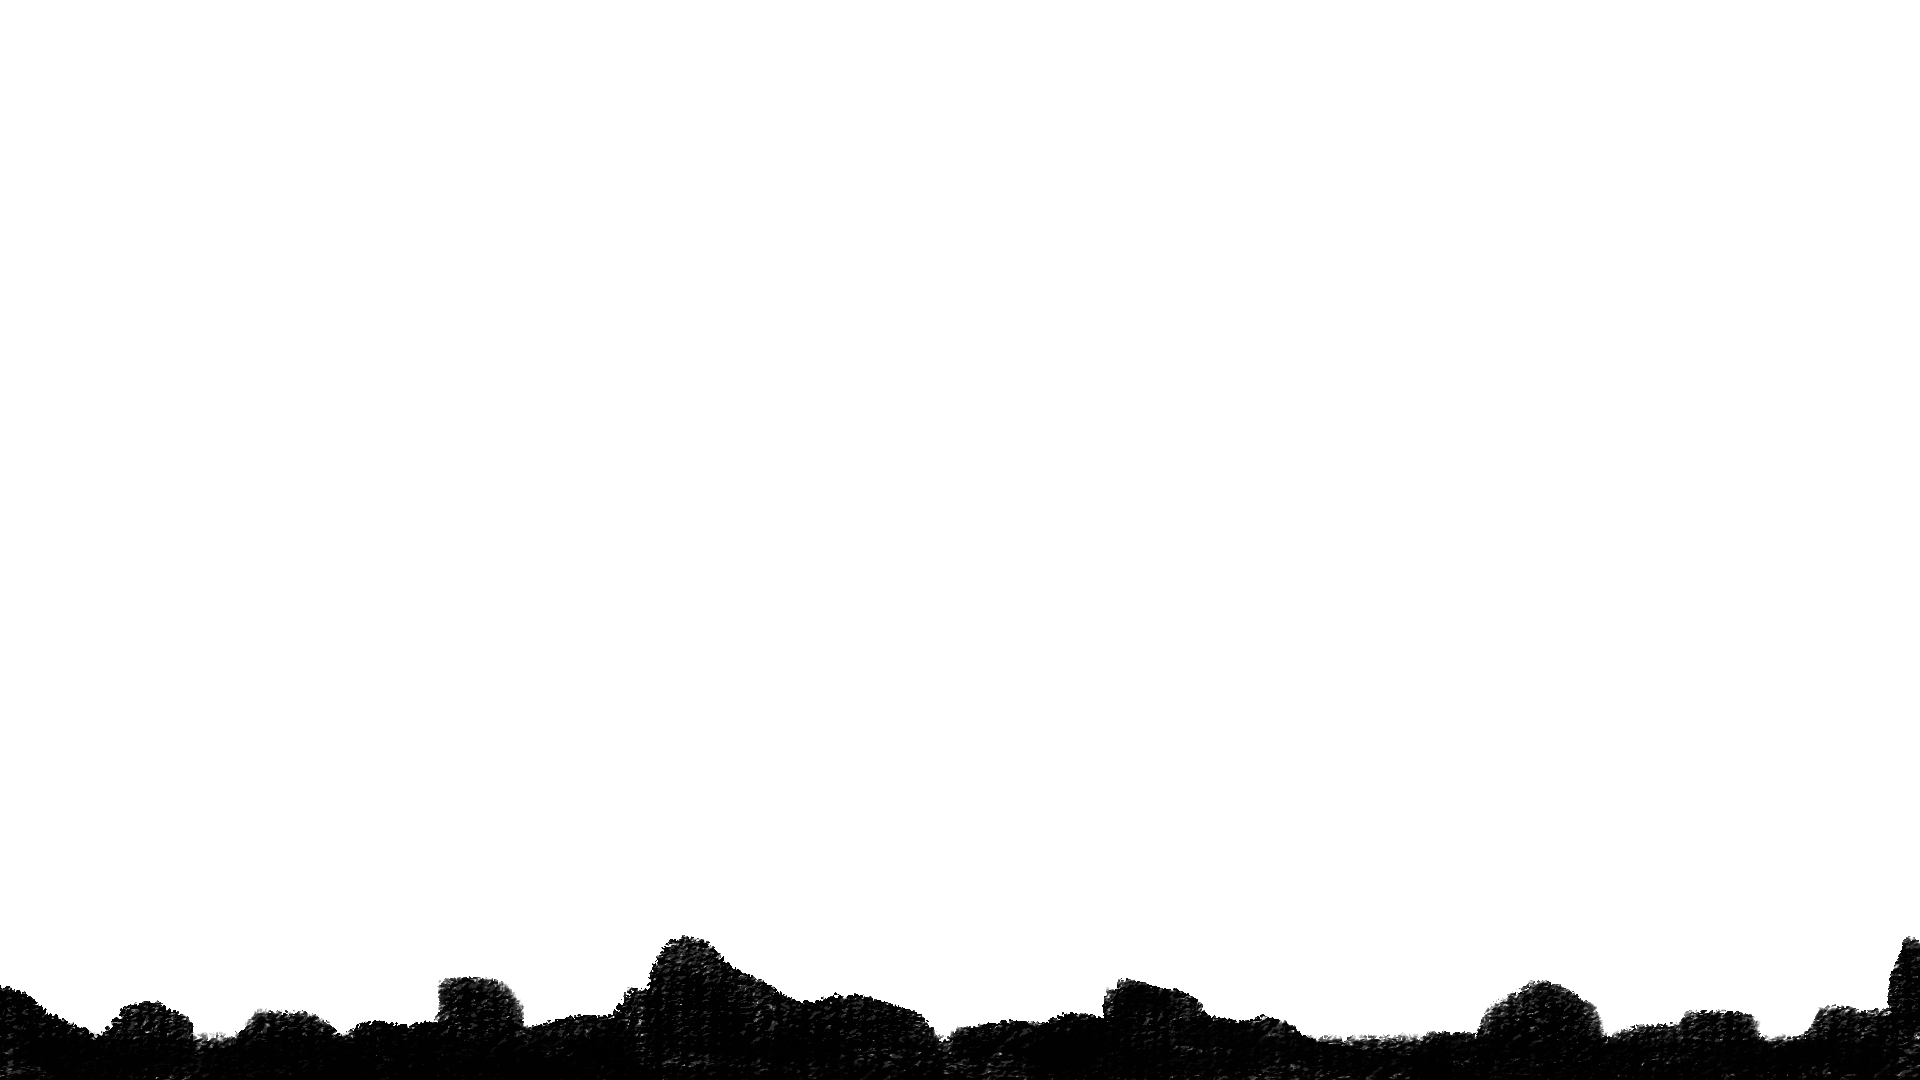
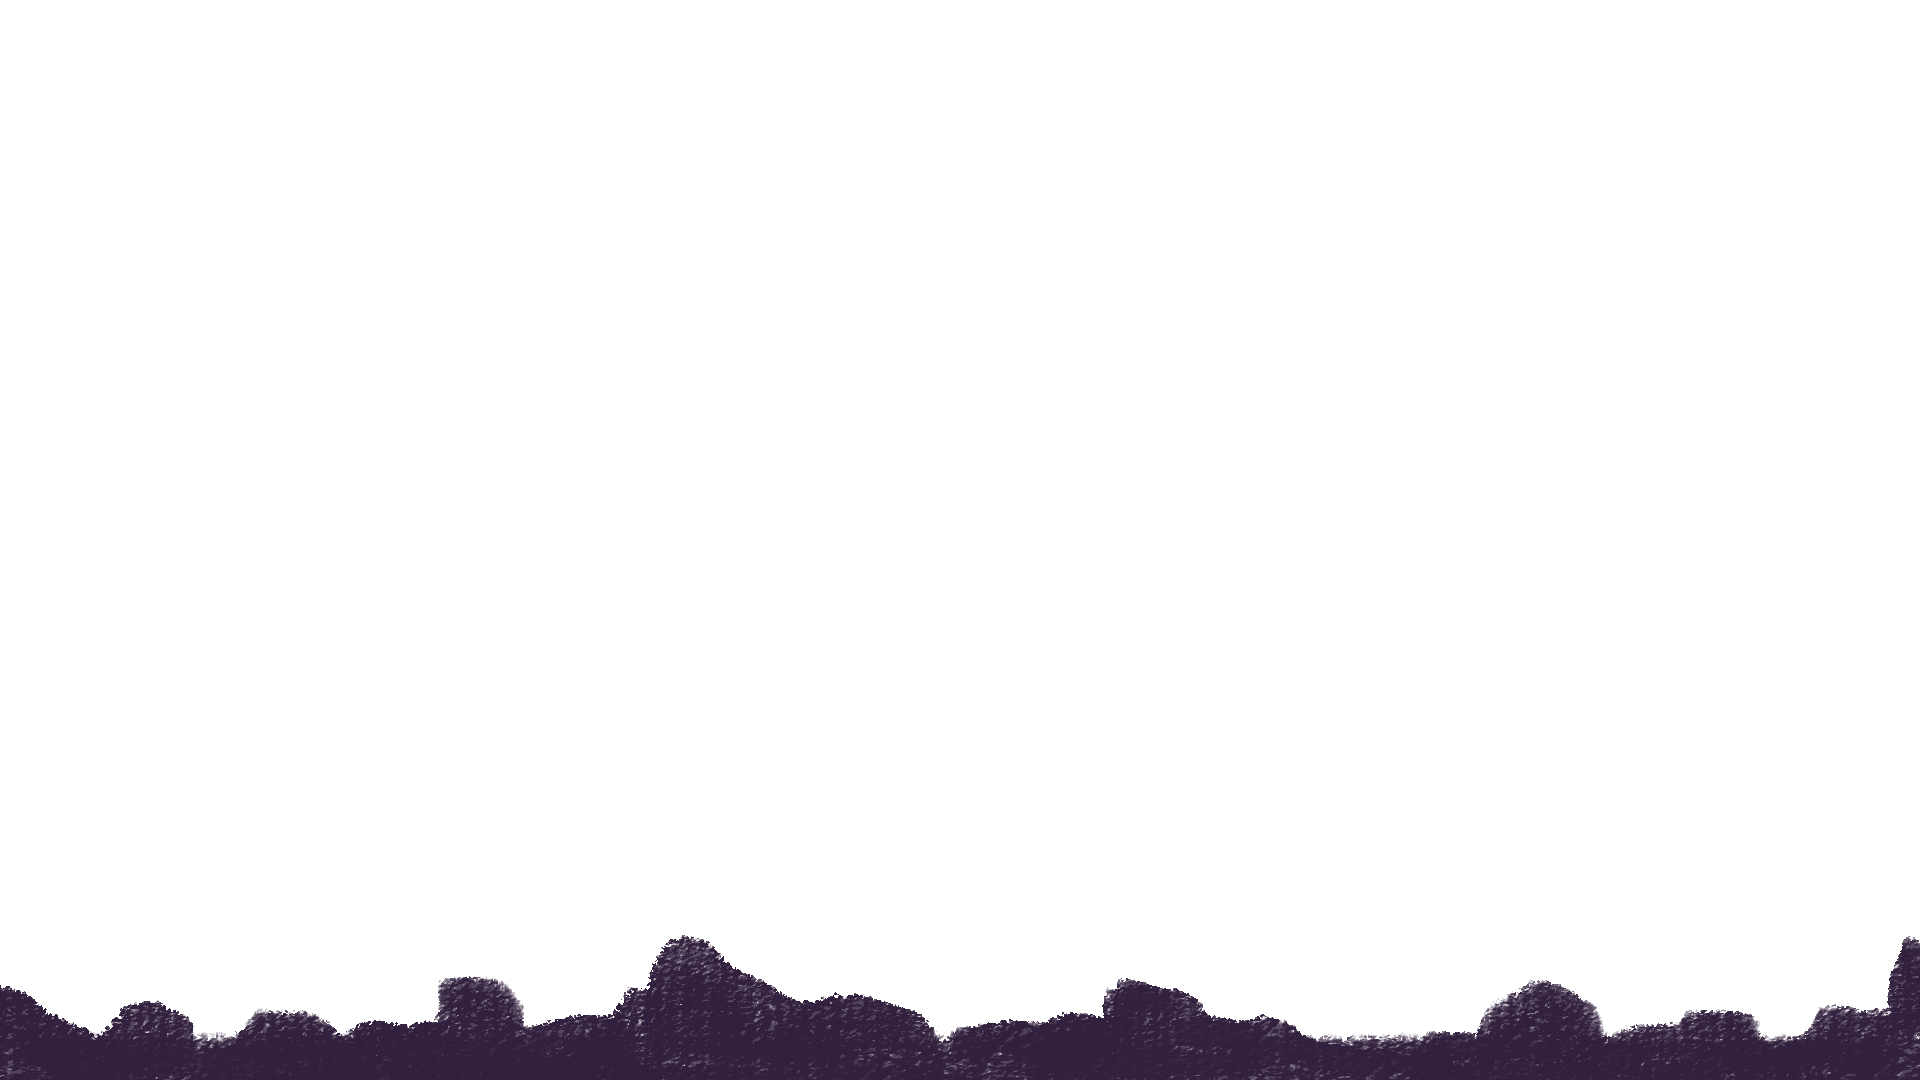
fixed cave foreground layers and mountain layer issues, fixed level arrows and continuity

Changed region(s): [[0.0, 0.8556, 1.0, 1.0]]

diff --git a/game.js b/game.js
@@ -1,15 +1,16 @@
 goal.x = 1800;
 goal.y = groundLevel - 92;
 
-// Level progression
+// Level progression (per-biome)
 let currentLevel = 1;
-let maxUnlockedLevel = 1;
+let maxUnlockedLevel = { cave: 1, forest: 1, mountain: 1 };
 
 // Win animation state
 let winGlow = 0;
 let winFade = 0;
 let winPhase = 'none'; // 'none' | 'glow' | 'fade' | 'done'
 
+// --- Standard parallax tiling (cave) ---
 function drawParallaxLayer(img, parallaxFactor) {
     if (!img.complete || img.naturalWidth === 0 || img.naturalHeight === 0) return;
 
@@ -24,24 +25,89 @@ function drawParallaxLayer(img, parallaxFactor) {
     }
 }
 
-function drawForegroundPlatforms() {
-    platforms.forEach(p => {
-        if (caveForegroundImg.complete && caveForegroundImg.naturalWidth > 0) {
-            ctx.drawImage(caveForegroundImg, p.x, p.y, p.w, p.h);
+// --- Forest: ping-pong mirror tiling for seamless blending ---
+function drawForestParallaxLayer(img, parallaxFactor) {
+    if (!img.complete || img.naturalWidth === 0 || img.naturalHeight === 0) return;
+
+    const dh = canvas.height;
+    const dw = (img.naturalWidth / img.naturalHeight) * dh;
+    let startX = (-cameraX * parallaxFactor) % dw;
+    if (startX > 0) startX -= dw;
+
+    // Figure out which tile index startX corresponds to
+    let tileNum = Math.round((-cameraX * parallaxFactor - startX) / dw);
+
+    for (let x = startX; x < canvas.width; x += dw) {
+        ctx.save();
+        if (tileNum % 2 === 1) {
+            // Mirror this tile so edges blend seamlessly
+            ctx.translate(x + dw, 0);
+            ctx.scale(-1, 1);
+            ctx.drawImage(img, 0, 0, dw, dh);
         } else {
-            ctx.fillStyle = '#555';
-            ctx.fillRect(p.x, p.y, p.w, p.h);
+            ctx.drawImage(img, x, 0, dw, dh);
         }
-    });
+        ctx.restore();
+        tileNum++;
+    }
 }
 
-function drawForeground2() {
-    if (caveForegroundImg2.complete && caveForegroundImg2.naturalWidth > 0) {
-        ctx.save();
-        ctx.globalAlpha = 0.65;
-        ctx.drawImage(caveForegroundImg2, 0, 0, levelWidth, canvas.height);
-        ctx.restore();
+// --- Mountain: section-based viewport per level ---
+function drawMountainLayer(img, parallaxFactor) {
+    if (!img.complete || img.naturalWidth === 0 || img.naturalHeight === 0) return;
+
+    const numLevels = 8;
+    const sectionSrcW = img.naturalWidth / numLevels;
+    const sectionSrcStart = (currentLevel - 1) * sectionSrcW;
+
+    // Scale section to screen, maintaining aspect ratio
+    const scale = canvas.height / img.naturalHeight;
+    const sectionDrawW = sectionSrcW * scale;
+
+    // Apply parallax scrolling within the section
+    const drawX = -cameraX * parallaxFactor;
+
+    ctx.drawImage(img,
+        sectionSrcStart, 0, sectionSrcW, img.naturalHeight,
+        drawX, 0, sectionDrawW, canvas.height
+    );
+}
+
+// --- Biome-aware parallax dispatcher ---
+function drawBiomeParallaxLayer(img, parallaxFactor) {
+    const biomeName = biomeList[currentBiomeIndex];
+    if (biomeName === 'mountain' || biomeName === 'forest') {
+        drawForestParallaxLayer(img, parallaxFactor);
+    } else {
+        drawParallaxLayer(img, parallaxFactor);
     }
+}
+
+// --- Foreground layer (behind player, world space) ---
+function drawForegroundLayer() {
+    const biome = getCurrentBiome();
+    const img = biome.foreground;
+    if (!img.complete || img.naturalWidth === 0) return;
+
+    // Extend past the door for a cleaner look on all biomes
+    ctx.drawImage(img, 0, 0, levelWidth + canvas.width, canvas.height);
+}
+
+// --- Foreground 2 overlay (in front of player, world space) ---
+function drawOverlayLayer() {
+    const biome = getCurrentBiome();
+    const img = biome.foreground2;
+    if (!img.complete || img.naturalWidth === 0) return;
+
+    ctx.save();
+    if (biomeList[currentBiomeIndex] === 'cave') {
+        ctx.globalAlpha = 0.40;
+        ctx.filter = 'brightness(0.7) saturate(0.5)';
+    } else {
+        ctx.globalAlpha = 0.65;
+    }
+    ctx.drawImage(img, 0, 0, levelWidth + canvas.width, canvas.height);
+    ctx.restore();
 }
 
 function showWinScreen() {
@@ -55,22 +121,50 @@ function showWinScreen() {
     winFade = 0;
 }
 
-function unlockNextLevel() {
-    if (currentLevel >= maxUnlockedLevel) {
-        maxUnlockedLevel = Math.min(currentLevel + 1, 8);
-    }
-    // Update button states in the DOM
+function updateLevelButtons() {
+    const biome = biomeList[currentBiomeIndex];
     document.querySelectorAll('.level-btn').forEach(function (btn) {
         const lvl = parseInt(btn.getAttribute('data-level'));
-        if (lvl <= maxUnlockedLevel) {
+        if (lvl <= maxUnlockedLevel[biome]) {
             btn.classList.remove('locked');
+        } else {
+            btn.classList.add('locked');
         }
     });
+}
+
+function unlockNextLevel() {
+    const biome = biomeList[currentBiomeIndex];
+    if (currentLevel >= maxUnlockedLevel[biome]) {
+        maxUnlockedLevel[biome] = Math.min(currentLevel + 1, 8);
+    }
+    updateLevelButtons();
+}
+
+function updateBiomeArrows() {
+    const leftBtn = document.getElementById('biome-left');
+    const rightBtn = document.getElementById('biome-right');
+    leftBtn.style.opacity = (currentBiomeIndex === 0) ? '0.2' : '1';
+    leftBtn.style.pointerEvents = (currentBiomeIndex === 0) ? 'none' : 'auto';
+    rightBtn.style.opacity = (currentBiomeIndex === biomeList.length - 1) ? '0.2' : '1';
+    rightBtn.style.pointerEvents = (currentBiomeIndex === biomeList.length - 1) ? 'none' : 'auto';
+}
+
+function switchBiome(delta) {
+    const newIndex = currentBiomeIndex + delta;
+    if (newIndex < 0 || newIndex >= biomeList.length) return;
+    currentBiomeIndex = newIndex;
+    const biome = biomeList[currentBiomeIndex];
+    document.getElementById('biome-name').textContent = '- ' + biomeNames[biome] + ' -';
+    document.getElementById('level-select').style.background = biomeMenuBgs[biome];
+    updateBiomeArrows();
+    updateLevelButtons();
 }
 
 function showLevelSelect() {
     unlockNextLevel();
     const ls = document.getElementById('level-select');
+    ls.style.background = biomeMenuBgs[biomeList[currentBiomeIndex]];
     ls.style.display = 'flex';
     ls.style.opacity = '0';
     requestAnimationFrame(function () {
@@ -92,7 +186,6 @@ function resetGame() {
     winGlow = 0;
     winFade = 0;
     npc.x = 50;
-    npc.y = 140;
     npc.velocityX = 0;
     npc.velocityY = 0;
     npc.stamina = 100;
@@ -100,6 +193,13 @@ function resetGame() {
     npc.onMouse = false;
     npc.state = 'SEEKING';
     cameraX = 0;
+
+    // Adjust ground level per biome so sprite sits on the terrain art
+    const biomeName = biomeList[currentBiomeIndex];
+    const biomeGroundOffset = (biomeName === 'mountain') ? 20 : (biomeName === 'cave') ? 40 : 0;
+    platforms[0].y = groundLevel + biomeGroundOffset;
+    goal.y = platforms[0].y - goal.height;
+    npc.y = platforms[0].y - npc.height;
 }
 
 // Level select button handlers
@@ -115,28 +215,34 @@ document.addEventListener('DOMContentLoaded', function () {
             }, 900);
         });
     });
+
+    // Biome navigation arrows
+    document.getElementById('biome-left').addEventListener('click', function () { switchBiome(-1); });
+    document.getElementById('biome-right').addEventListener('click', function () { switchBiome(1); });
+    updateBiomeArrows();
 });
 
 function gameLoop() {
     cameraX = npc.x - 200;
     if (cameraX < 0) cameraX = 0;
 
+    const biome = getCurrentBiome();
+    const biomeName = biomeList[currentBiomeIndex];
+
     ctx.clearRect(0, 0, canvas.width, canvas.height);
 
-    // 1. BACK LAYERS (Static & Parallax)
-    ctx.fillStyle = '#1e1e1e';
+    // 1. Background fill + parallax layers (screen space)
+    ctx.fillStyle = biomeFills[biomeName];
     ctx.fillRect(0, 0, canvas.width, canvas.height);
-    drawParallaxLayer(caveBackgroundImg, 0.2);
-    drawParallaxLayer(caveMiddlegroundImg, 0.5);
+    drawBiomeParallaxLayer(biome.background, 0.2);
+    drawBiomeParallaxLayer(biome.middleground, 0.5);
 
-    // 2. PARALLAX LAYERS
-    drawParallaxLayer(caveBackgroundImg, 0.2);
-    drawParallaxLayer(caveMiddlegroundImg, 0.5);
-
-
-    // 3. WORLD SPACE (Camera affects these)
+    // 2. WORLD SPACE (Camera affects these)
     ctx.save();
     ctx.translate(-cameraX, 0);
+
+    // 3. Foreground layer (behind player)
+    drawForegroundLayer();
 
     // Draw the Goal (exit door)
     if (exitDoorImg.complete && exitDoorImg.naturalWidth > 0) {
@@ -167,9 +273,8 @@ function gameLoop() {
     }
     npc.draw();
 
-    drawForegroundPlatforms();
-
-    drawForeground2();
+    // 4. Foreground 2 overlay (in front of player)
+    drawOverlayLayer();
 
     // --- WIN CONDITION CHECK ---
     if (!isLevelComplete &&

diff --git a/setup.js b/setup.js
@@ -29,17 +29,35 @@ const cacheBust = '?v=' + Date.now();
 const exitDoorImg = new Image();
 exitDoorImg.src = 'assets/Exit door.png' + cacheBust;
 
-const caveBackgroundImg = new Image();
-caveBackgroundImg.src = 'art/backgrounds/cave/Cave Background.png' + cacheBust;
+// Biome system
+const biomeList = ['cave', 'forest', 'mountain'];
+const biomeNames = { cave: 'CAVES', forest: 'FOREST', mountain: 'MOUNTAIN' };
+const biomeFills = { cave: '#1e1e1e', forest: '#0e1e0e', mountain: '#1a1e2a' };
+const biomeMenuBgs = {
+    cave: 'radial-gradient(ellipse at center, #1a1a3a 0%, #0a0a18 60%, #050510 100%)',
+    forest: 'radial-gradient(ellipse at center, #0a2a0a 0%, #061806 60%, #030f03 100%)',
+    mountain: 'radial-gradient(ellipse at center, #1a2535 0%, #0a1520 60%, #050d15 100%)'
+};
+let currentBiomeIndex = 0;
 
-const caveMiddlegroundImg = new Image();
-caveMiddlegroundImg.src = 'art/backgrounds/cave/Cave Middleground.png' + cacheBust;
+const biomes = {};
+biomeList.forEach(function(biome) {
+    const cap = biome.charAt(0).toUpperCase() + biome.slice(1);
+    biomes[biome] = {
+        background: new Image(),
+        middleground: new Image(),
+        foreground: new Image(),
+        foreground2: new Image()
+    };
+    biomes[biome].background.src = 'art/backgrounds/' + biome + '/' + cap + ' Background.png' + cacheBust;
+    biomes[biome].middleground.src = 'art/backgrounds/' + biome + '/' + cap + ' Middleground.png' + cacheBust;
+    biomes[biome].foreground.src = 'art/backgrounds/' + biome + '/' + cap + ' Foreground.png' + cacheBust;
+    biomes[biome].foreground2.src = 'art/backgrounds/' + biome + '/' + cap + ' Foreground 2.png' + cacheBust;
+});
 
-const caveForegroundImg = new Image();
-caveForegroundImg.src = 'art/backgrounds/cave/Cave Foreground 2.png' + cacheBust;
-
-const caveForegroundImg2 = new Image();
-caveForegroundImg2.src = 'art/backgrounds/cave/Cave Foreground.png' + cacheBust;
+function getCurrentBiome() {
+    return biomes[biomeList[currentBiomeIndex]];
+}
 
 
 const timeInAir = (Math.abs(jumpForce) * 2) / gravity;

diff --git a/style.css b/style.css
@@ -62,8 +62,37 @@ body {
     color: #6a6a8a;
     font-size: 13px;
     letter-spacing: 3px;
-    margin-bottom: 35px;
+    margin-bottom: 0;
     font-family: 'Cinzel Decorative', serif;
+}
+
+.biome-nav {
+    display: flex;
+    align-items: center;
+    gap: 20px;
+    margin-bottom: 35px;
+}
+
+.biome-arrow {
+    background: none;
+    border: 2px solid rgba(200, 200, 230, 0.4);
+    border-radius: 50%;
+    width: 40px;
+    height: 40px;
+    color: #e8e0d0;
+    font-size: 18px;
+    cursor: pointer;
+    transition: all 0.25s ease;
+    display: flex;
+    align-items: center;
+    justify-content: center;
+    font-family: sans-serif;
+}
+
+.biome-arrow:hover {
+    border-color: rgba(200, 200, 255, 0.8);
+    text-shadow: 0 0 10px rgba(200, 200, 255, 0.5);
+    transform: scale(1.1);
 }
 
 .level-grid {

diff --git a/index.html b/index.html
@@ -11,7 +11,11 @@
     </div>
     <div id="level-select" style="display:none;">
         <h1>Select Level</h1>
-        <div class="subtitle">- CAVES -</div>
+        <div class="biome-nav">
+            <button class="biome-arrow" id="biome-left">&#9664;</button>
+            <div class="subtitle" id="biome-name">- CAVES -</div>
+            <button class="biome-arrow" id="biome-right">&#9654;</button>
+        </div>
         <div class="level-grid">
             <button class="level-btn" data-level="1">1</button>
             <button class="level-btn locked" data-level="2">2</button>
